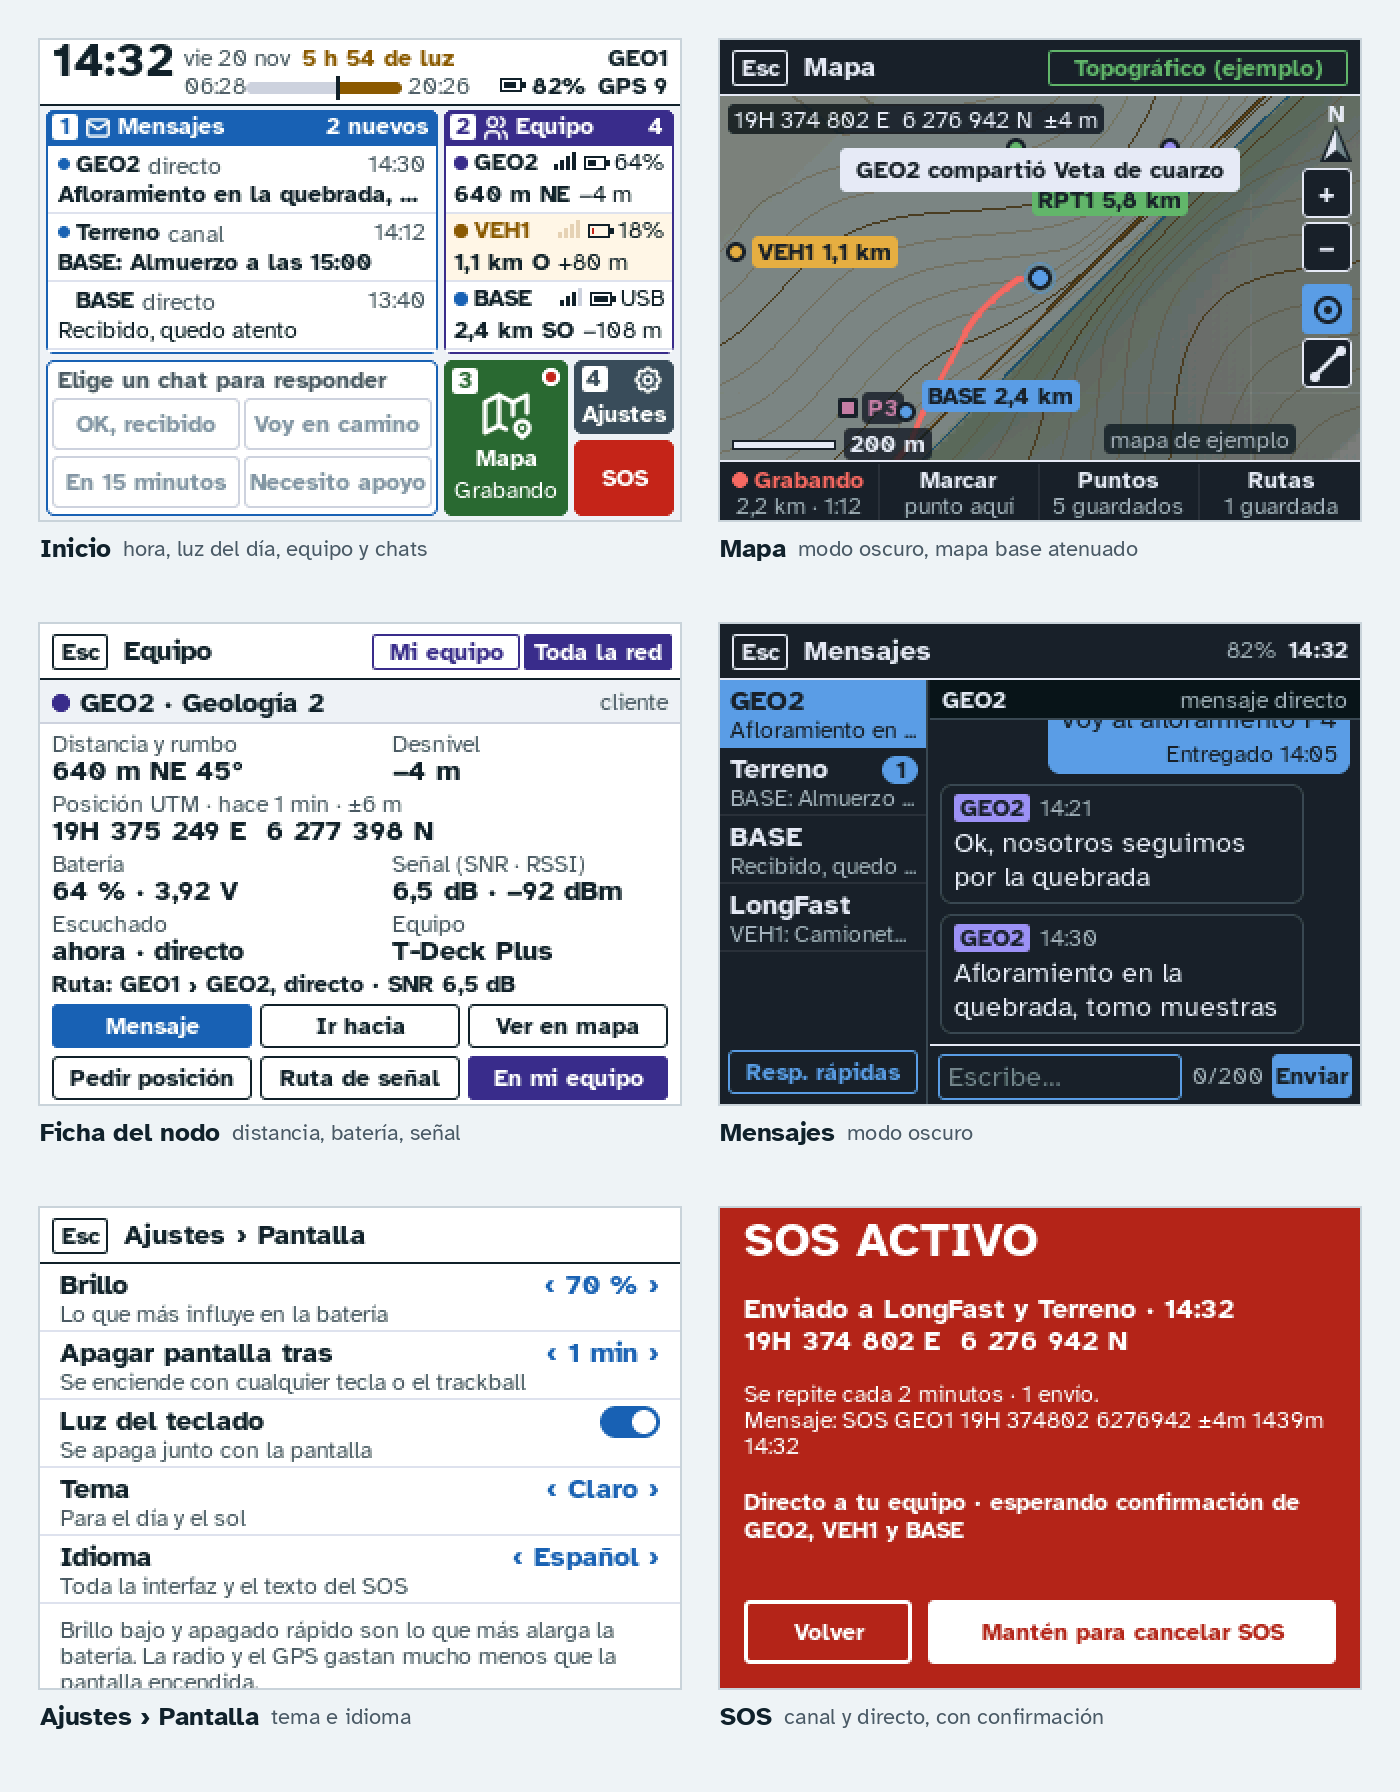
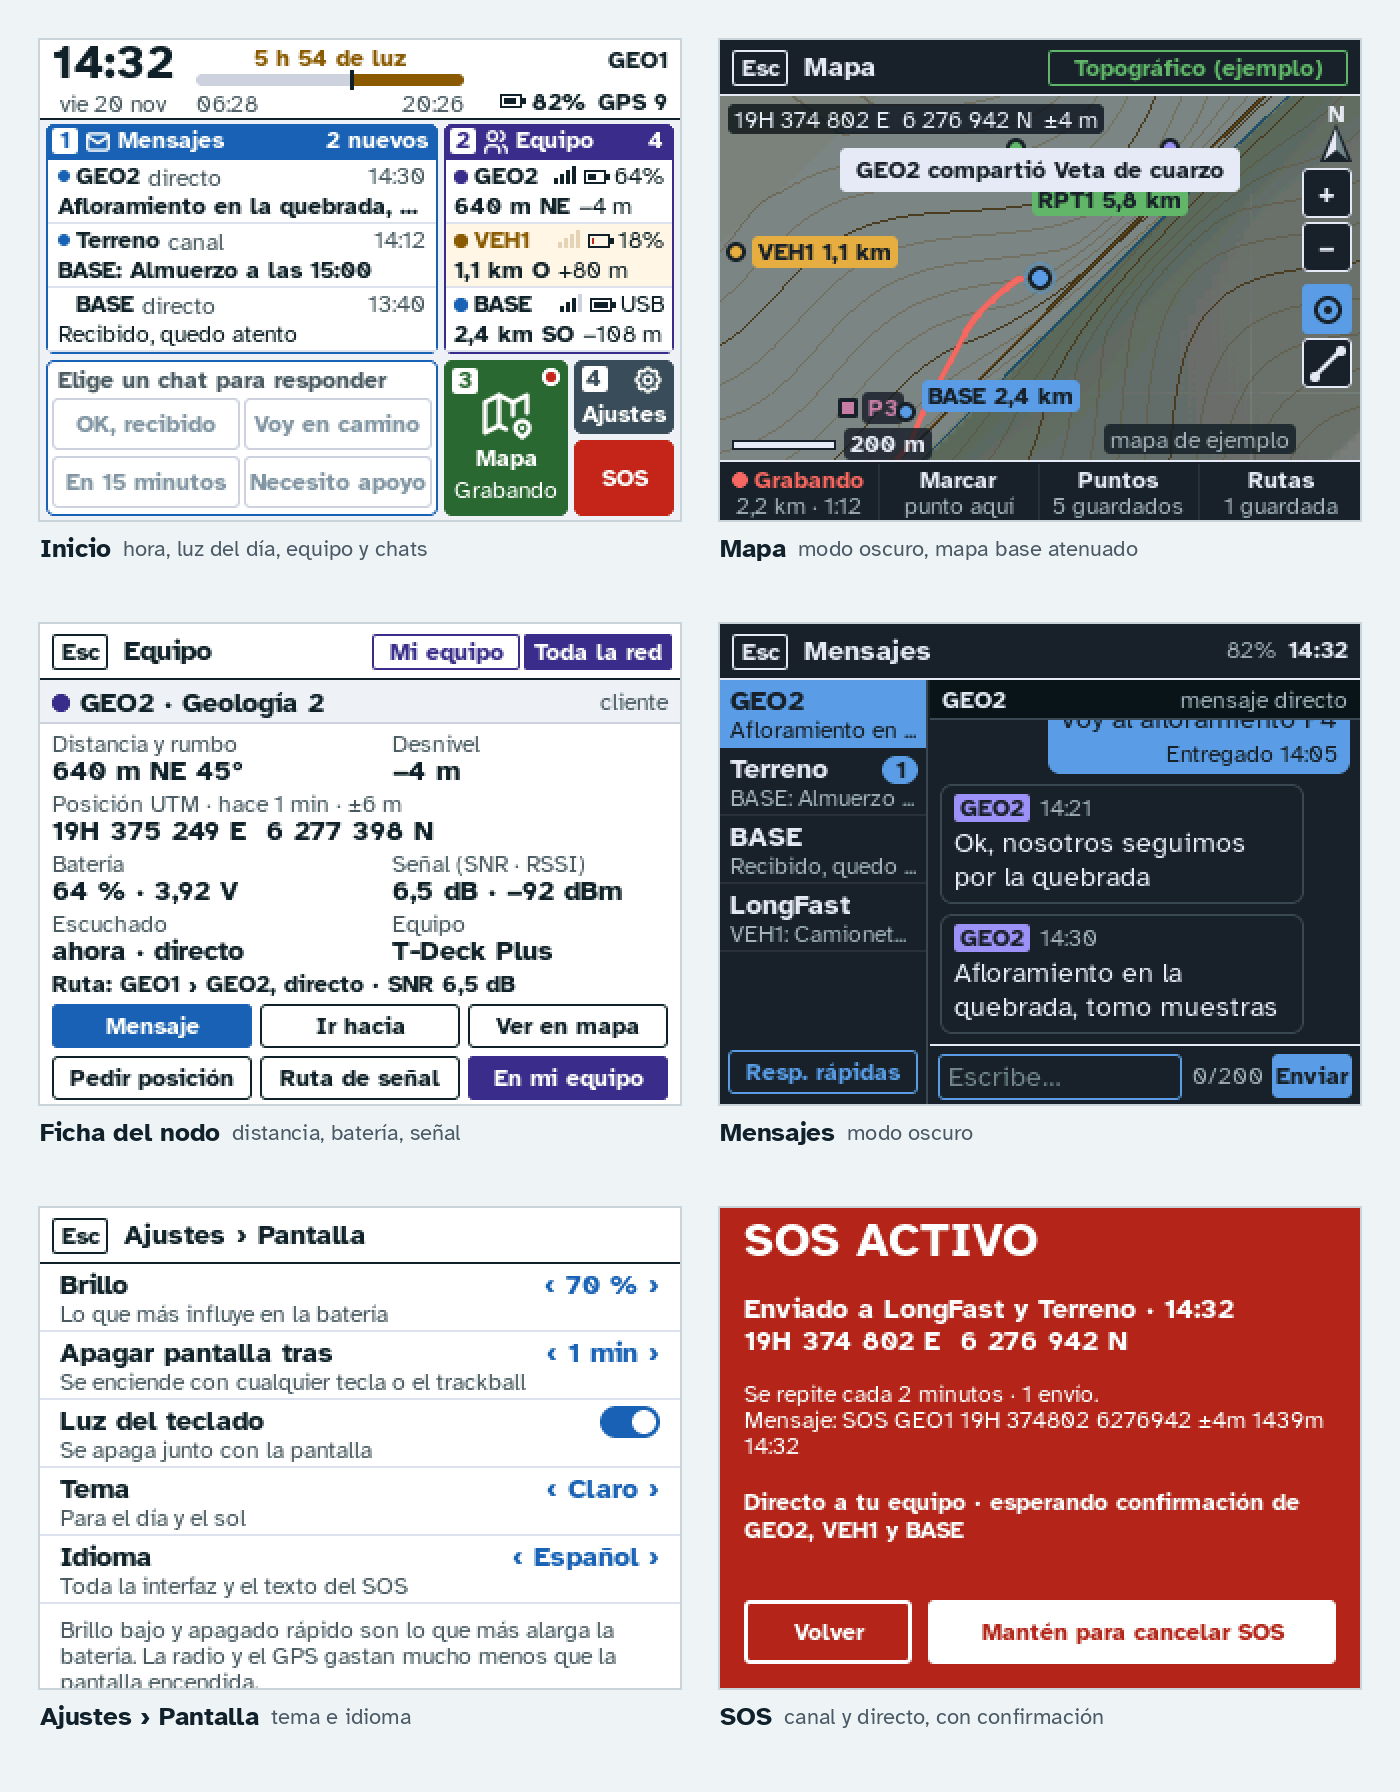
Inicio: cabecera en tres columnas, con la noche que queda
- Hora con la fecha centrada debajo.
- Luz que queda centrada sobre la barra, y bajo sus extremos las horas de salida y puesta.
- De noche: "8 h 48 de noche" y la barra de la puesta a la salida del sol (pizarra lo que
  queda de noche).
- Fecha, horas y GPS en una misma línea; filas de chat y equipo de 32 px para hacer espacio.

Claude-Session: https://claude.ai/code/session_01LhBvBV1REtvP3u8QkKtfjG

Changed region(s): [[0.0307, 0.0312, 0.4914, 0.2188]]

diff --git a/src/home.cpp b/src/home.cpp
@@ -1,9 +1,10 @@
 // Pantalla de inicio "Mosaico": cabecera con hora y barra de luz del día, y fichas de color
 // que a la vez son los accesos (1 Mensajes, 2 Equipo, 3 Mapa, 4 Ajustes) más el SOS.
 //
-//   0 ┌ 14:32  vie 20 nov · 5 h 54 de luz        GEO1 ┐
-//     │        06:27 ▬▬▬▬▬▬|▬▬▬▬ 20:26     ▭ 82% GPS 9 │
-//  35 ├ 1 Mensajes ─────────────┬ 2 Equipo ─────────┤
+//   0 ┌  14:32       5 h 54 de luz (o de noche)  GEO1 ┐
+//     │ vie 20 nov  ▬▬▬▬▬▬▬▬▬|▬▬▬▬▬▬   ▭ 82% GPS 9 │
+//     │             06:27          20:26             │
+//  42 ├ 1 Mensajes ─────────────┬ 2 Equipo ─────────┤
 //     │ chats (3 a la vista)     │ equipo (3 a la    │
 //     │                          │ vista)            │
 // 160 ├ Responder a …  ──────────┼ 3 Mapa ─┬ 4 Ajus ─┤
@@ -27,9 +28,9 @@ namespace tfield {
 
 using namespace ui;
 
-static constexpr int32_t TOP_H = 33;   // cabecera (incluye línea)
+static constexpr int32_t TOP_H = 40;   // cabecera (incluye línea)
 static constexpr int32_t GAP = 3;      // separación entre fichas
-static constexpr int32_t ROW1_Y = 35, ROW1_H = 122;
+static constexpr int32_t ROW1_Y = TOP_H + 2, ROW1_H = 115;
 static constexpr int32_t ROW2_Y = ROW1_Y + ROW1_H + GAP, ROW2_H = 78;
 static constexpr int32_t LEFT_W = 196;                // Mensajes y respuestas
 static constexpr int32_t RIGHT_X = GAP + LEFT_W + GAP; // Equipo, Mapa, Ajustes, SOS
@@ -37,8 +38,10 @@ static constexpr int32_t RIGHT_W = SCREEN_W - GAP - RIGHT_X;
 static constexpr int32_t MAP_W = 62;
 static constexpr int32_t SIDE_X = RIGHT_X + MAP_W + GAP, SIDE_W = SCREEN_W - GAP - SIDE_X;
 static constexpr int32_t BAND_H = 18; // franja de color con número, dibujo y nombre
-static constexpr int32_t ROW_H = 34;  // fila de chat o de equipo (2 renglones)
-static constexpr int32_t BAR_X = 103, BAR_W = 78; // barra de luz del día
+static constexpr int32_t ROW_H = 32;  // fila de chat o de equipo (2 renglones)
+static constexpr int32_t CLOCK_X = 6, CLOCK_W = 62;  // hora, y la fecha centrada debajo
+static constexpr int32_t BAR_X = 78, BAR_W = 134;    // barra de luz, centrada bajo lo que queda
+static constexpr int32_t BAR_Y = 17;     // y bajo ella, en una línea: fecha, horas y GPS (y=25)
 
 static const lv_image_dsc_t *picto(int i)
 {
@@ -108,25 +111,36 @@ void HomeScreen::create(App *app)
     // --- Cabecera: hora, fecha, luz del día, nodo propio
     lv_obj_t *top = box(screen, 0, 0, SCREEN_W, TOP_H, col::SURF);
     border(top, col::INK, 1, LV_BORDER_SIDE_BOTTOM);
+    // columna 1: hora y, centrada debajo, la fecha
     clock_ = label(top, &tfield_font_24b, col::INK, "--:--");
-    lv_obj_set_pos(clock_, 6, 2);
+    lv_obj_set_pos(clock_, CLOCK_X, 3);
+    lv_obj_set_width(clock_, CLOCK_W);
+    lv_obj_set_style_text_align(clock_, LV_TEXT_ALIGN_CENTER, 0);
     date_ = label(top, &tfield_font_12, col::INK2, "");
-    lv_obj_set_pos(date_, 72, 2);
+    lv_obj_set_pos(date_, CLOCK_X - 4, 25);
+    lv_obj_set_width(date_, CLOCK_W + 8);
+    lv_obj_set_style_text_align(date_, LV_TEXT_ALIGN_CENTER, 0);
+    // columna 2: luz (o noche) que queda y, centrada debajo, la barra de la salida a la
+    // puesta del sol: gris lo que pasó, ámbar lo que queda; bajo sus extremos, las horas
     daylight_ = label(top, &tfield_font_12b, col::AMBER, "");
-    name_ = label(top, &tfield_font_12b, col::INK, "");
-    ui::align(name_, LV_ALIGN_TOP_RIGHT, -6, 2);
-    // barra: de la salida a la puesta del sol; gris lo que pasó, ámbar la luz que queda
-    rise_ = label(top, &tfield_font_12, col::INK2, "");
-    lv_obj_set_pos(rise_, 72, 16);
-    bar_ = box(top, BAR_X, 21, BAR_W, 6, col::LINE);
+    // ancho justo al texto (al cambiar el minuto se redibuja solo eso), centrado sobre la barra
+    ui::align(daylight_, LV_ALIGN_TOP_MID, BAR_X + BAR_W / 2 - SCREEN_W / 2, 2);
+    bar_ = box(top, BAR_X, BAR_Y, BAR_W, 6, col::LINE);
     lv_obj_set_style_radius(bar_, 3, 0);
     lv_obj_set_style_clip_corner(bar_, true, 0);
     bar_left_ = box(bar_, 0, 0, 0, 6, col::AMBER);
-    now_mark_ = box(top, BAR_X, 18, 2, 12, col::INK);
+    now_mark_ = box(top, BAR_X, BAR_Y - 2, 2, 10, col::INK);
+    rise_ = label(top, &tfield_font_12, col::INK2, "");
+    lv_obj_set_pos(rise_, BAR_X, BAR_Y + 8);
     set_ = label(top, &tfield_font_12, col::INK2, "");
-    lv_obj_set_pos(set_, BAR_X + BAR_W + 3, 16);
+    lv_obj_set_pos(set_, BAR_X, BAR_Y + 8);
+    lv_obj_set_width(set_, BAR_W);
+    lv_obj_set_style_text_align(set_, LV_TEXT_ALIGN_RIGHT, 0);
+    // columna 3: nodo propio, batería y GPS
+    name_ = label(top, &tfield_font_12b, col::INK, "");
+    ui::align(name_, LV_ALIGN_TOP_RIGHT, -6, 3);
     gps_ = label(top, &tfield_font_12b, col::INK, "");
-    ui::align(gps_, LV_ALIGN_TOP_RIGHT, -6, 16);
+    ui::align(gps_, LV_ALIGN_TOP_RIGHT, -6, 24);
     bat_pct_ = label(top, &tfield_font_12b, col::INK, "");
     bat_ = battery(top, 0, 0);
 
@@ -232,33 +246,46 @@ void HomeScreen::set_status(const Status &s)
     set_text(clock_, buf);
     set_text(date_, s.day.empty() ? std::string() : s.day + " " + s.month);
 
-    // luz del día: texto y barra (gris lo que pasó desde la salida del sol, ámbar lo que queda)
-    int rise = hhmm_min(s.sunrise), set = hhmm_min(s.sunset);
+    // Luz o noche que queda, y debajo su barra: de día va de la salida a la puesta del sol
+    // (ámbar lo que queda); de noche, de la puesta a la salida (pizarra lo que queda).
+    // Gris lo que ya pasó; la marca es la hora actual.
+    int rise = hhmm_min(s.sunrise), set = hhmm_min(s.sunset), now = s.hour * 60 + s.minute;
     bool sun = s.daylight_min >= 0 && s.epoch && rise >= 0 && set > rise;
-    if (s.daylight_min > 0) {
-        set_text(daylight_, format_daylight(s.daylight_min) + tr(" de luz"));
+    bool day = s.daylight_min > 0;
+    int32_t span = 0, left = 0; // minutos del tramo (día o noche) y los que quedan
+    if (sun && day) {
+        span = set - rise;
+        left = s.daylight_min;
+    } else if (sun) {
+        span = 1440 - set + rise;
+        left = now >= set ? 1440 - now + rise : rise - now;
+        left = LV_CLAMP(0, left, span);
+    }
+    if (sun && day) {
+        set_text(daylight_, format_daylight(left) + tr(" de luz"));
         set_color(daylight_, col::AMBER);
-    } else if (s.daylight_min == 0) {
-        set_text(daylight_, tr("Noche"));
-        set_color(daylight_, col::INK2);
+    } else if (sun) {
+        set_text(daylight_, format_daylight(left) + tr(" de noche"));
+        set_color(daylight_, col::SLATE);
     } else {
-        set_text(daylight_, tr("Sin posici\xC3\xB3n"));
+        set_text(daylight_, s.daylight_min == 0 ? tr("Noche") : tr("Sin posici\xC3\xB3n"));
         set_color(daylight_, col::INK2);
     }
-    ui::align_to(daylight_, date_, LV_ALIGN_OUT_RIGHT_MID, s.day.empty() ? 0 : 6, 0);
+    ui::align(daylight_, LV_ALIGN_TOP_MID, BAR_X + BAR_W / 2 - SCREEN_W / 2, sun ? 2 : 13); // sin barra: al medio
     show(rise_, sun);
     show(set_, sun);
     show(bar_, sun);
-    show(now_mark_, sun && s.daylight_min > 0);
+    show(now_mark_, sun);
     if (sun) {
-        set_text(rise_, s.sunrise);
-        set_text(set_, s.sunset);
-        int32_t left = s.daylight_min > 0 ? LV_CLAMP(0, s.daylight_min * BAR_W / (set - rise), BAR_W) : 0;
-        if (lv_obj_get_x(bar_left_) != BAR_W - left || lv_obj_get_width(bar_left_) != left) {
-            lv_obj_set_pos(bar_left_, BAR_W - left, 0);
-            lv_obj_set_width(bar_left_, left);
+        set_text(rise_, day ? s.sunrise : s.sunset); // extremos del tramo
+        set_text(set_, day ? s.sunset : s.sunrise);
+        int32_t w = LV_CLAMP(0, left * BAR_W / span, BAR_W);
+        set_bg(bar_left_, day ? col::AMBER : col::SLATE);
+        if (lv_obj_get_x(bar_left_) != BAR_W - w || lv_obj_get_width(bar_left_) != w) {
+            lv_obj_set_pos(bar_left_, BAR_W - w, 0);
+            lv_obj_set_width(bar_left_, w);
         }
-        lv_obj_set_pos(now_mark_, BAR_X + LV_CLAMP(0, BAR_W - left - 1, BAR_W - 2), 18);
+        lv_obj_set_pos(now_mark_, BAR_X + LV_CLAMP(0, BAR_W - w - 1, BAR_W - 2), BAR_Y - 2);
     }
 
     set_text(name_, s.short_name);
@@ -315,7 +342,7 @@ void HomeScreen::set_team(const std::vector<TeamNode> &team)
         r.bars = signal_bars(r.row, 0, 0);
         // renglón 2: distancia y rumbo · desnivel
         r.dist = label(r.row, &tfield_font_12b, col::INK, "");
-        lv_obj_set_pos(r.dist, 4, 17);
+        lv_obj_set_pos(r.dist, 4, 16);
         r.alt = label(r.row, &tfield_font_12, col::INK, "");
         r.heard = nullptr;
         team_rows_.push_back(r);
@@ -388,15 +415,15 @@ void HomeScreen::set_chats(const std::vector<Chat> &chats)
         r.row = button(chat_list_, 0, 0, cw, ROW_H, col::SURF, 0, nullptr);
         lv_obj_set_style_radius(r.row, 0, 0);
         border(r.row, col::LINE2, 1, LV_BORDER_SIDE_BOTTOM);
-        r.dot = box(r.row, 5, 6, 6, 6, col::BLUE);
+        r.dot = box(r.row, 5, 5, 6, 6, col::BLUE);
         lv_obj_set_style_radius(r.dot, LV_RADIUS_CIRCLE, 0);
         r.name = label(r.row, &tfield_font_12b, col::INK, "");
-        lv_obj_set_pos(r.name, 14, 2);
+        lv_obj_set_pos(r.name, 14, 1);
         r.tag = label(r.row, &tfield_font_12, col::INK2, "");
         r.time = label(r.row, &tfield_font_12, col::INK2, "");
-        ui::align(r.time, LV_ALIGN_TOP_RIGHT, -5, 2);
+        ui::align(r.time, LV_ALIGN_TOP_RIGHT, -5, 1);
         r.preview = label(r.row, &tfield_font_12, col::INK, "");
-        lv_obj_set_pos(r.preview, 5, 17);
+        lv_obj_set_pos(r.preview, 5, 16);
         lv_obj_set_size(r.preview, cw - 10, 14);
         lv_label_set_long_mode(r.preview, LV_LABEL_LONG_MODE_DOTS);
         lv_obj_set_user_data(r.row, (void *)(intptr_t)chat_rows_.size());
